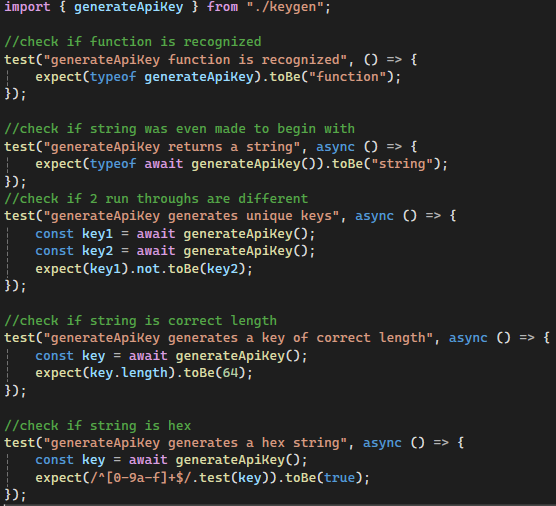
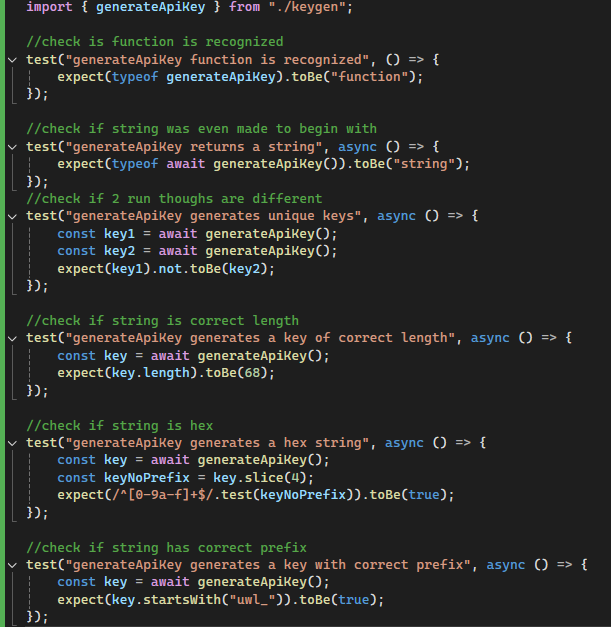
finalized readme

Changed region(s): [[0.0, 0.0, 1.0, 1.0], [0.6421, 0.415, 0.8255, 0.4447]]

diff --git a/tests/apikeygen/keygen.test.ts b/tests/apikeygen/keygen.test.ts
@@ -1,7 +1,7 @@
 import { generateApiKey } from "./keygen";
 
 //check is function is recognized
-test("generateApiKey function is recog  nized", () => {
+test("generateApiKey function is recognized", () => {
     expect(typeof generateApiKey).toBe("function");
 });
 

diff --git a/README.md b/README.md
@@ -100,7 +100,7 @@ pnpm test:unit
 
 
 ## Where to Find Unit Tests?
-### Tests Location for API key generation: tests/apikeygen/
+### Tests Location for API key generation: `tests/apikeygen/`
 
 - The project includes six unit tests covering API key generation behavior.
 - These tests check that `generateApiKey` is defined, returns a string, generates unique values, produces the expected length, uses valid hexadecimal characters, and applies the correct `uwl_` prefix.
@@ -108,4 +108,22 @@ pnpm test:unit
 ## keygen.tests.ts
 <img src="./assets/keygen-tests.png" width="50%" />
 
-### Tests Location for API methods: tests/api/
+### Tests Location for API methods: `tests/api/`
+
+- In addition to the API-key-generation unit tests, this repository also includes automated API tests located in `tests/api/`.
+- These tests validate authentication handling, list retrieval, and adding an item to a list through the current API endpoints.
+
+## wishlists.test.ts
+<img src="./assets/api-tests.png" width="50%" />
+
+### Running the API tests
+```sh
+pnpm test:ui:api
+```
+
+- This command is configured to run the Playwright-based API tests for the API endpoints.
+- In our current setup, these tests are most reliably verified through the Build and Test workflow in `GitHub Actions`.
+- API test execution is visible under the `Build and Test` workflow in the `GitHub Actions` tab.
+- In particular, the `Run Playwright API tests` step shows the Playwright-based API tests running in CI.
+- Local execution may fail if Docker is not available through WSL.
+- This provides a consistent environment for verifying API behavior when local Docker or WSL configuration prevents the tests from running successfully.
